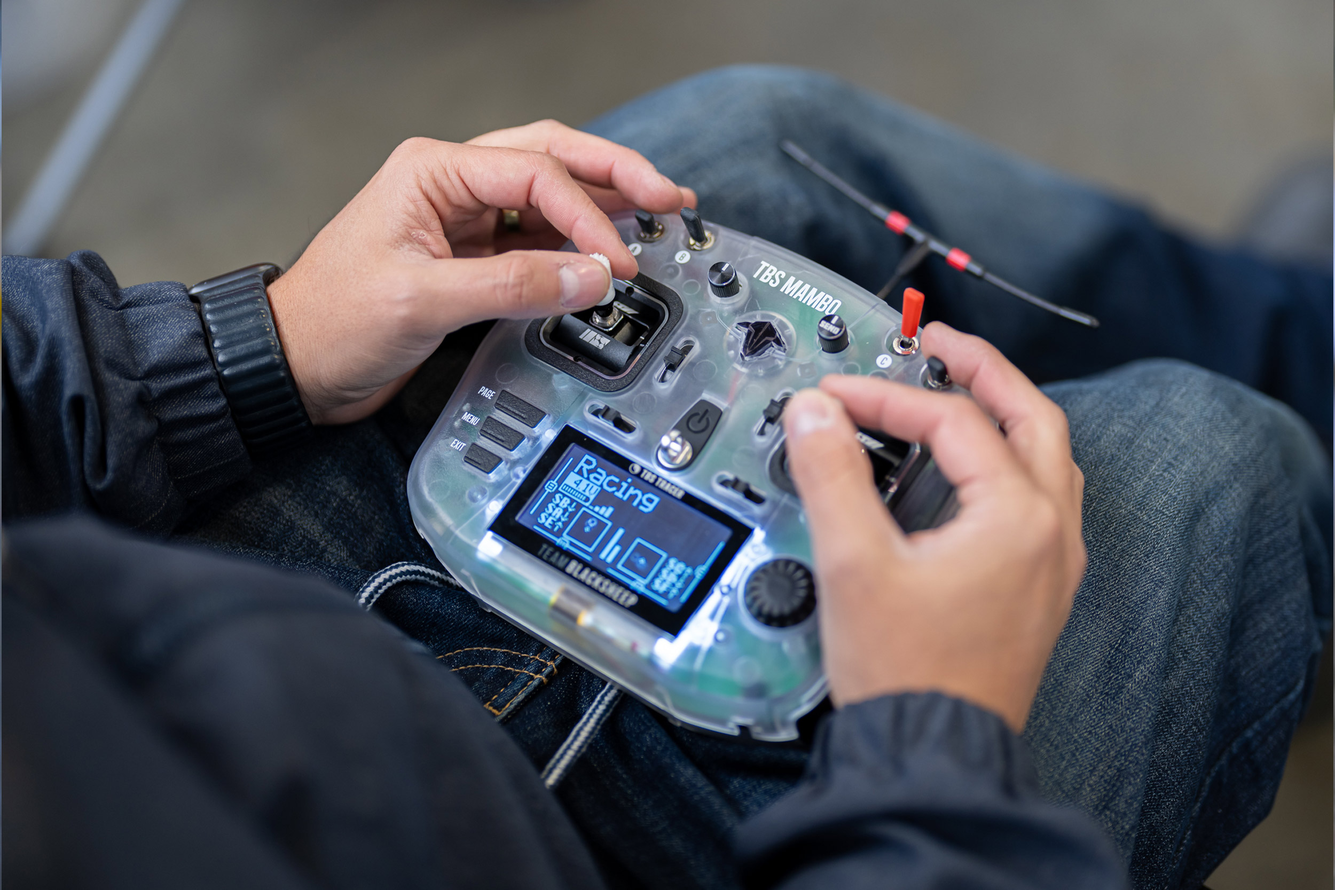
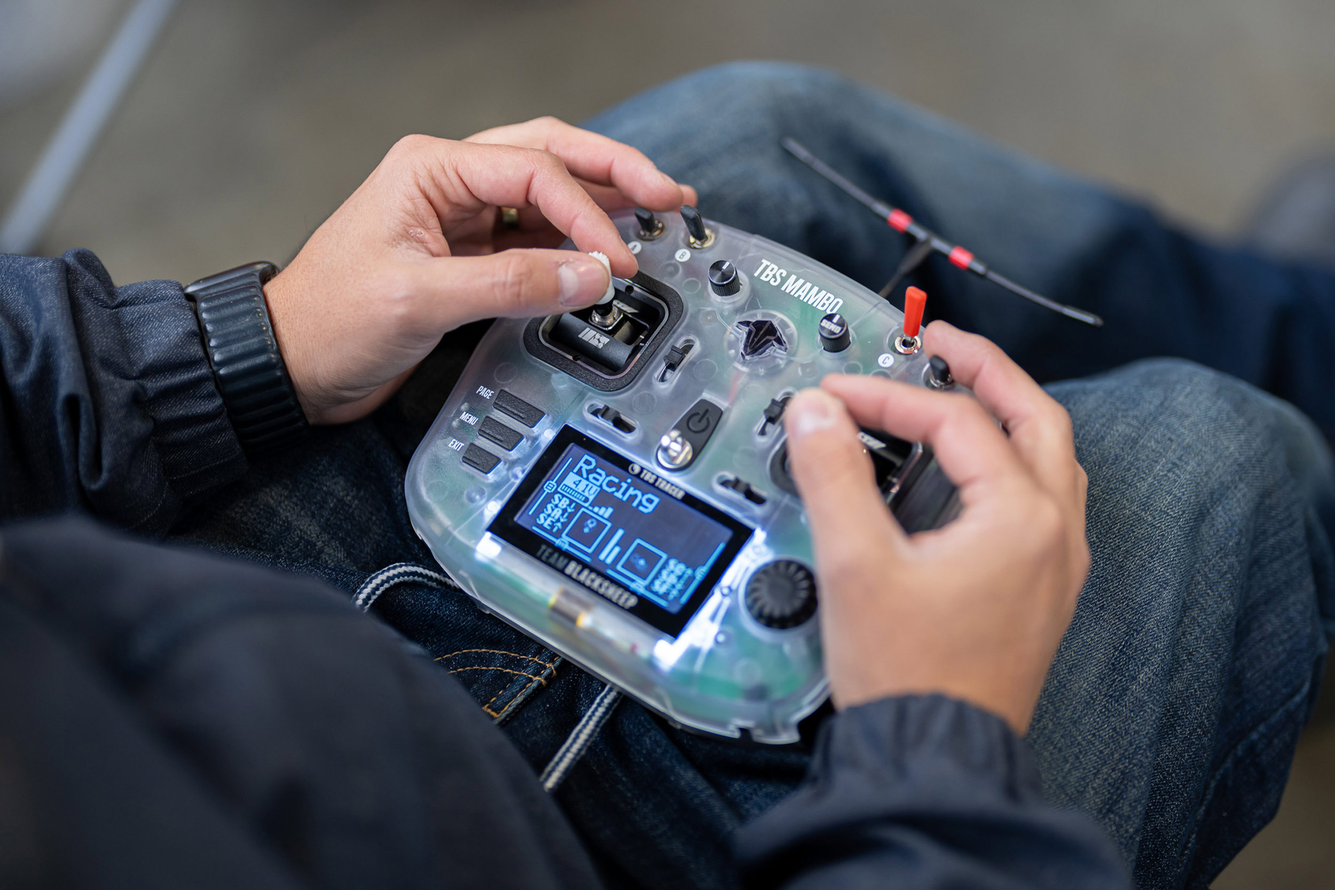
Mobile optimization

diff --git a/docs/ui.js b/docs/ui.js
@@ -224,18 +224,32 @@ document.addEventListener("DOMContentLoaded", () => {
   const menuButton = document.querySelector(".menu-button");
   const nav = document.querySelector("#site-nav");
   const links = [...document.querySelectorAll("#site-nav .nav-link")];
+  const homeLinks = [...document.querySelectorAll('a[href="#home"]')];
+
+  function closeMenu() {
+    nav.classList.remove("open");
+    menuButton?.setAttribute("aria-expanded", "false");
+  }
+
+  function setActiveSection(sectionId) {
+    links.forEach(link => {
+      link.classList.toggle("active", sectionId !== "events" && link.hash === `#${sectionId}`);
+    });
+  }
+
   menuButton?.addEventListener("click", () => {
     const open = nav.classList.toggle("open");
     menuButton.setAttribute("aria-expanded", String(open));
   });
-  links.forEach(link => link.addEventListener("click", () => {
-    nav.classList.remove("open");
-    menuButton?.setAttribute("aria-expanded", "false");
+  links.forEach(link => link.addEventListener("click", closeMenu));
+  homeLinks.forEach(link => link.addEventListener("click", () => {
+    closeMenu();
+    setActiveSection("events");
   }));
   const observer = new IntersectionObserver(entries => entries.forEach(entry => {
-    if (entry.isIntersecting) links.forEach(link => link.classList.toggle("active", link.hash === `#${entry.target.id}`));
+    if (entry.isIntersecting) setActiveSection(entry.target.id);
   }), { rootMargin: "-30% 0px -60%" });
-  document.querySelectorAll("#upcoming, #get-started, #gallery, #about").forEach(section => observer.observe(section));
+  document.querySelectorAll("#events, #upcoming, #get-started, #gallery, #about").forEach(section => observer.observe(section));
 });
 
 function setViewportHeight() {

diff --git a/docs/index.html b/docs/index.html
@@ -11,7 +11,7 @@
     <meta property="og:title" content="KwadsRUs Racing Club">
     <meta property="og:description" content="FPV drone racing in Metro Vancouver. Come fly with us.">
     <link rel="stylesheet" href="style.css?v=20260826-33">
-    <link rel="stylesheet" href="events-ui.css?v=20260824-17">
+    <link rel="stylesheet" href="events-ui.css?v=20260827-18">
     <link rel="manifest" href="/site.webmanifest">
     <link rel="icon" href="favicon.ico">
     <title>
@@ -365,16 +365,6 @@
               </a>
             </div>
           </div>
-          <div class="footer-title">
-            <p class="sub-title">
-              Sponsored by:
-            </p>
-            <div class="logos-row sponsor">
-              <a href="https://www.gemfanhobby.com/" target="_blank" rel="noopener">
-                <img src="images/org_gemfan.png" alt="Gemfan">
-              </a>
-            </div>
-          </div>
         </div>
       </div>
       <div class="footer-contact">
@@ -402,11 +392,11 @@
         </p>
       </div>
     </footer>
-    <script src="ui.js?v=20260826-2">
+    <script src="ui.js?v=20260827-3">
     </script>
     <script src="events-sync.js?v=20260825-3">
     </script>
-    <script src="events-ui.js?v=20260826-7">
+    <script src="events-ui.js?v=20260827-8">
     </script>
   </body>
 </html>

diff --git a/docs/events-ui.js b/docs/events-ui.js
@@ -72,11 +72,38 @@ async function loadUpcomingEvents() {
       container.appendChild(emptyMessage);
     }
     titleText.classList.add("visible");
+    scheduleMobileEventLayout();
 
   } catch (err) {
     console.error("Error loading events:", err);
     showMessage("Failed to load events", true);
   }
+}
+
+function updateMobileEventLayout() {
+  const isMobile = window.matchMedia("(max-width: 760px)").matches;
+
+  document.querySelectorAll(".card-date").forEach(dateRow => {
+    const location = dateRow.querySelector(".event-location");
+    if (!location) return;
+
+    dateRow.classList.remove("hide-location");
+    if (isMobile && dateRow.scrollWidth > dateRow.clientWidth) {
+      dateRow.classList.add("hide-location");
+    }
+  });
+}
+
+let mobileEventLayoutFrame;
+
+function scheduleMobileEventLayout() {
+  cancelAnimationFrame(mobileEventLayoutFrame);
+  mobileEventLayoutFrame = requestAnimationFrame(updateMobileEventLayout);
+}
+
+window.addEventListener("resize", scheduleMobileEventLayout);
+if (document.fonts && document.fonts.ready) {
+  document.fonts.ready.then(scheduleMobileEventLayout);
 }
 
 

diff --git a/docs/events-ui.css b/docs/events-ui.css
@@ -145,13 +145,20 @@
   }
 
   .card-date {
+    flex-wrap: nowrap;
     font-size: 14px;
     letter-spacing: .06em;
-    line-height: 1.3
+    line-height: 1.3;
+    overflow: hidden;
+    white-space: nowrap
   }
 
   .event-location {
     margin-left: 8px
+  }
+
+  .card-date.hide-location .event-location {
+    display: none
   }
 
   .event-location:before {
@@ -159,7 +166,10 @@
   }
 
   .card-name {
-    font-size: 22px
+    font-size: 22px;
+    overflow: hidden;
+    text-overflow: ellipsis;
+    white-space: nowrap
   }
 
   .card-chevron {
